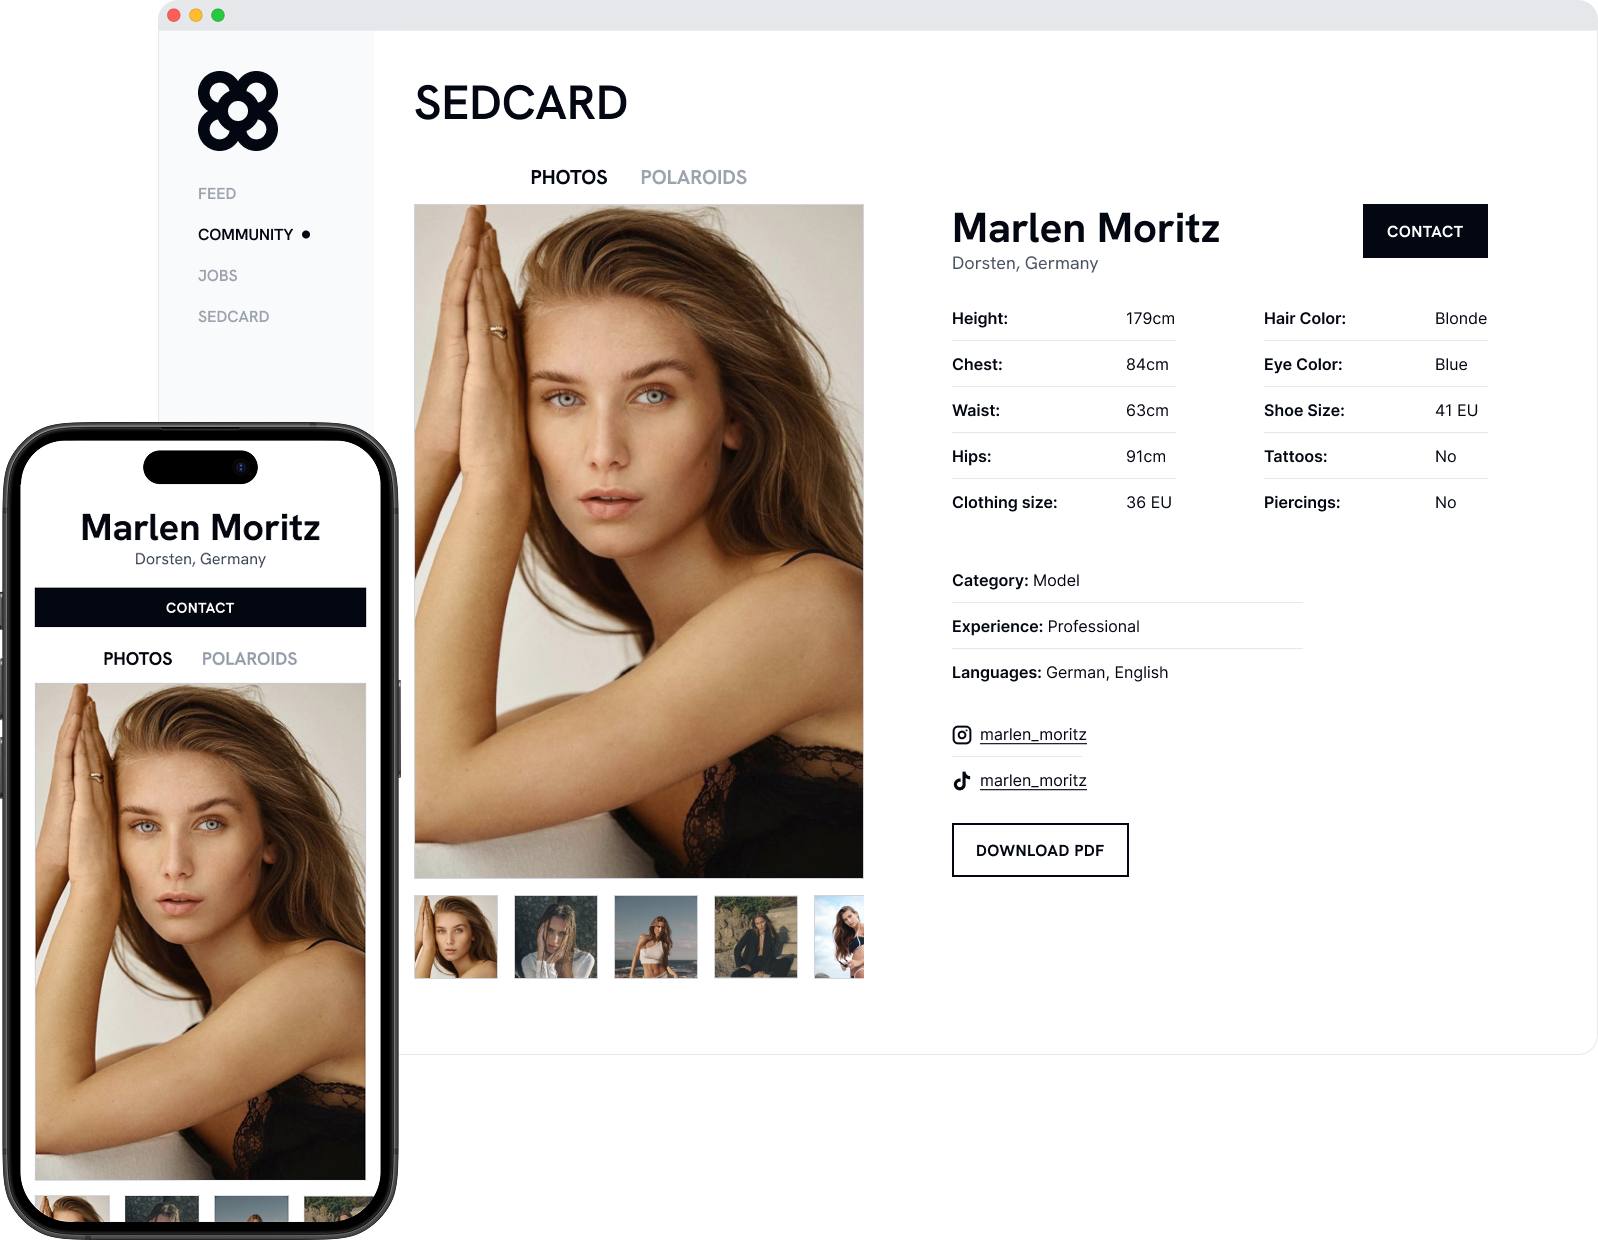
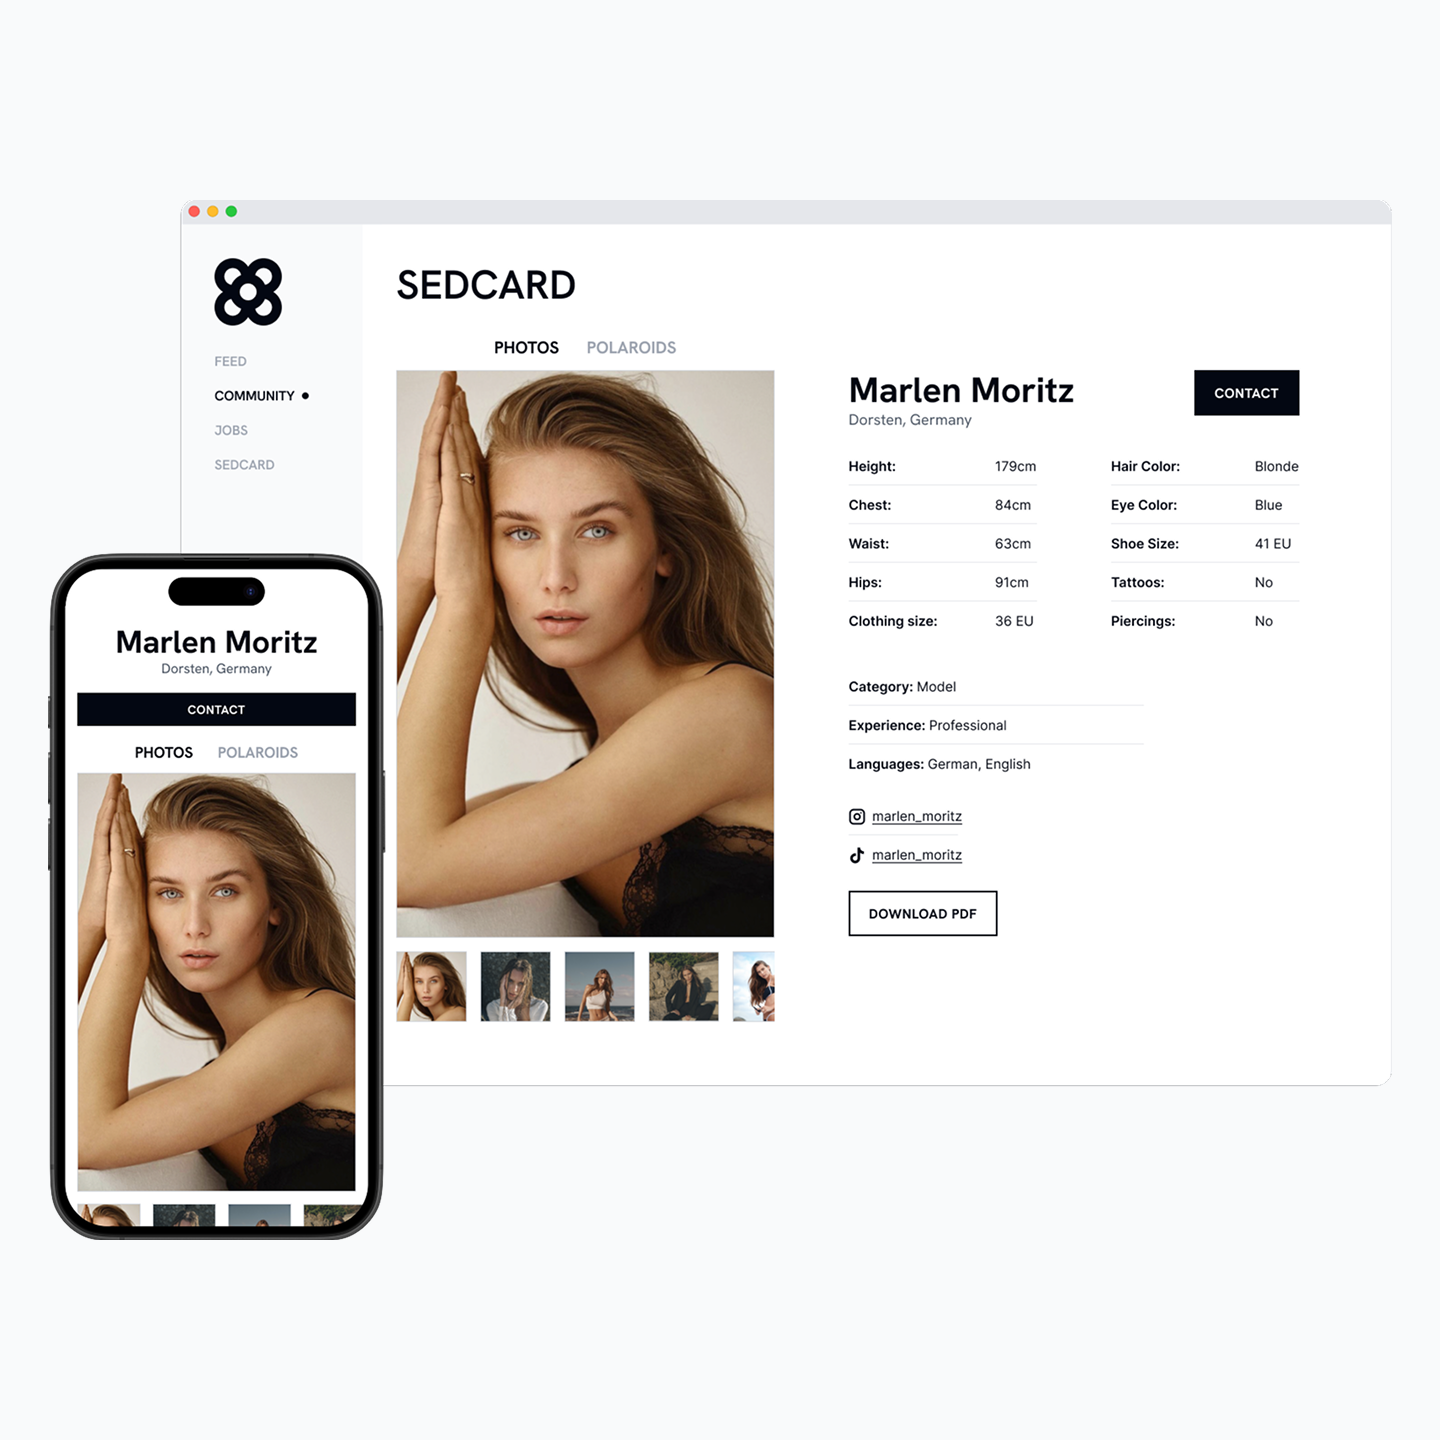
Feat: Add all projects

diff --git a/src/data/projects.ts b/src/data/projects.ts
@@ -11,7 +11,6 @@ export const projects: ProjectType[] = [
     isActive: true,
     icon: "/projects/sedcst/icon.svg",
     cover: "/projects/sedcst/cover.png",
-    coverStyle: "bg-[#F9FAFB] px-3",
     href: "https://www.sedcst.com",
   },
   {
@@ -25,5 +24,52 @@ export const projects: ProjectType[] = [
     icon: "/projects/letterme/icon.png",
     cover: "/projects/letterme/cover.png",
     href: "https://www.letterme.app",
+  },
+  {
+    id: "angle",
+    title: "Angle Audio",
+    description:
+      "A social audio platform for live group conversations. I was part of the engineering team behind the mobile and web apps.",
+    tags: ["Mobile", "Frontend"],
+    year: 2021,
+    isActive: false,
+    icon: "/projects/angle/icon.png",
+    cover: "/projects/angle/cover.png",
+    href: "https://angleaudio.webflow.io",
+  },
+  {
+    id: "criptan",
+    title: "Criptan",
+    description: "A crypto exchange platform based in Spain. I contributed to the early development of the mobile app.",
+    tags: ["Mobile"],
+    year: 2021,
+    isActive: true,
+    icon: "/projects/criptan/icon.png",
+    cover: "/projects/criptan/cover.png",
+    href: "https://criptan.com",
+  },
+  {
+    id: "nido",
+    title: "Nido",
+    description:
+      "A group communication app that connects college students and communities around the world. I contributed to the development of the mobile app.",
+    tags: ["Mobile"],
+    year: 2020,
+    isActive: false,
+    icon: "/projects/nido/icon.png",
+    cover: "/projects/nido/cover.png",
+    href: "https://www.instagram.com/getnido",
+  },
+  {
+    id: "friend-theory",
+    title: "Friend Theory",
+    description:
+      "A travel app that connects people with friends of friends for free accommodation around the world. I contributed to the development of the mobile app.",
+    tags: ["Mobile"],
+    year: 2019,
+    isActive: false,
+    icon: "/projects/friend-theory/icon.png",
+    cover: "/projects/friend-theory/cover.png",
+    href: "https://friendtheory.com",
   },
 ];

diff --git a/src/components/project-card.tsx b/src/components/project-card.tsx
@@ -2,17 +2,7 @@ import Image from "next/image";
 import Link from "next/link";
 import type { ProjectType } from "@/types/project";
 
-export default function ProjectCard({
-  title,
-  description,
-  tags,
-  year,
-  isActive,
-  icon,
-  cover,
-  coverStyle,
-  href,
-}: ProjectType) {
+export default function ProjectCard({ title, description, tags, year, isActive, icon, cover, href }: ProjectType) {
   return (
     <Link
       href={href}
@@ -58,7 +48,7 @@ export default function ProjectCard({
           alt={`${title} cover`}
           fill
           sizes="360px"
-          className={`h-full w-full object-contain ${coverStyle ?? ""}`}
+          className="h-full w-full object-contain"
           priority
         />
       </div>

diff --git a/src/types/project.ts b/src/types/project.ts
@@ -7,6 +7,5 @@ export interface ProjectType {
   isActive: boolean;
   icon: string;
   cover: string;
-  coverStyle?: string;
   href: string;
 }
